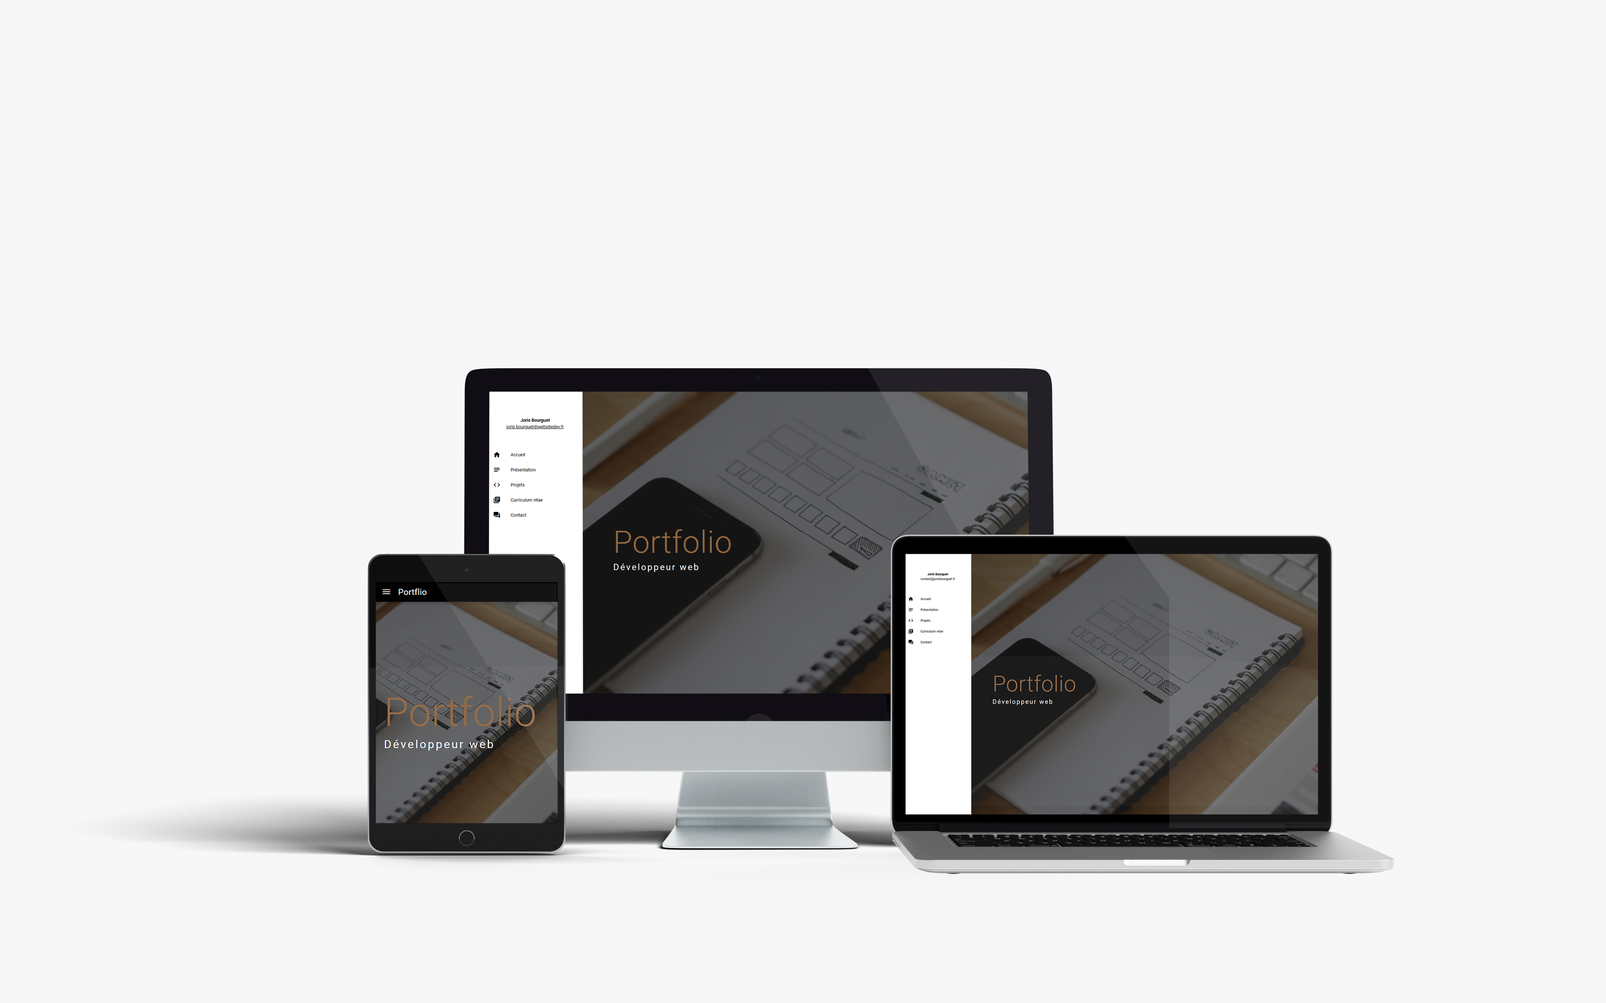
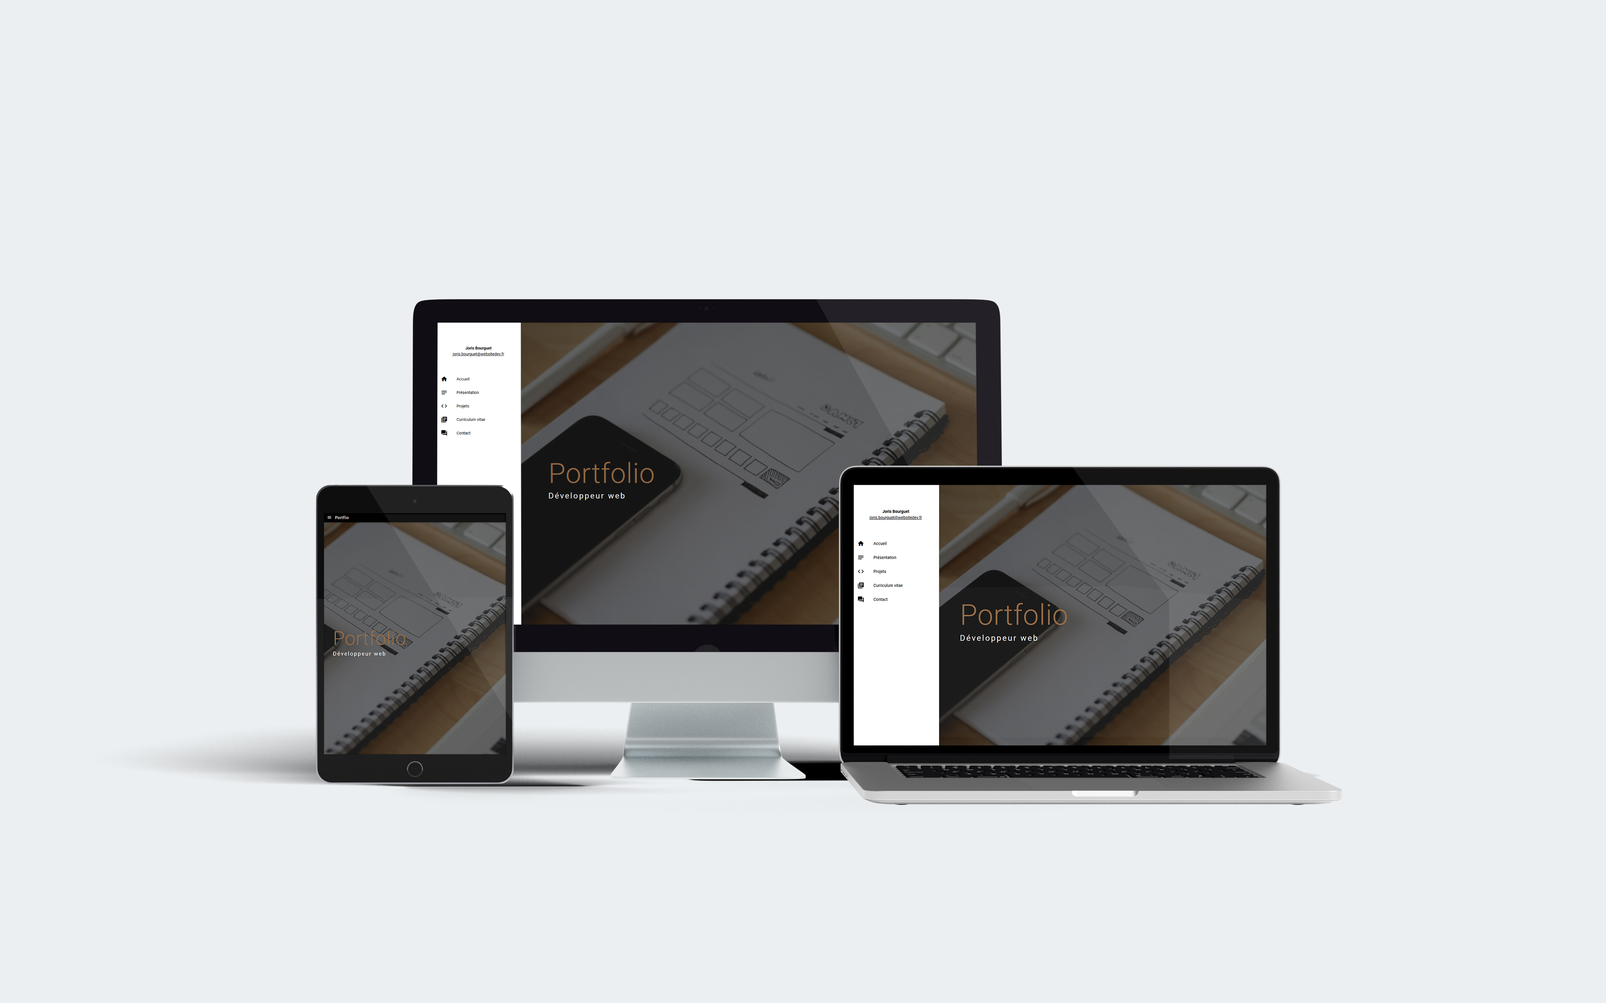
slider et wrapper left fonctionnel

Changed region(s): [[0.0938, 0.2808, 0.875, 0.8736]]

diff --git a/barbajs/assets/dist/main.min.css b/barbajs/assets/dist/main.min.css
@@ -1,1 +1,1 @@
-@import url("https://fonts.googleapis.com/css2?family=Raleway:ital,wght@0,400;1,300&family=Ultra&display=swap");*{scroll-behavior:smooth;font-family:"Raleway",sans-serif;-webkit-box-sizing:border-box;box-sizing:border-box}html,body{-webkit-touch-callout:none;-webkit-user-select:none;-moz-user-select:none;-ms-user-select:none;user-select:none;margin:0;padding:0}.wrapper .toggle-btn{display:block;position:fixed;width:50px;height:30px;top:60px;right:80px;z-index:999;cursor:pointer}.wrapper .toggle-btn span{display:block;position:absolute;height:4px;-webkit-transition:width .4s ease-in-out;transition:width .4s ease-in-out;width:100%;background-color:#000025}.wrapper .toggle-btn .one{position:absolute}.wrapper .toggle-btn .two{position:absolute;margin-top:12px}.wrapper .menu{z-index:998;position:absolute;background-color:#0a004b;height:100vh;width:100%;overflow:hidden}.wrapper .menu .data{padding:8em 0 0 2em;text-align:left}.wrapper .menu .data ul{list-style:none}.wrapper .menu .data ul li:first-child{color:#c50426;font-family:"Ultra",serif;font-size:2rem}.wrapper .menu .data ul li:not(:first-child){color:#ff4f4f;font-size:4rem}.wrapper .menu .data ul a{color:#ff4f4f;text-decoration:none}.wrapper .menu .data ul a:hover{color:#c50426}.landing{display:-ms-grid;display:grid;height:100vh;grid-template:"wrapperTitle  caroussel" "contact contact";-ms-grid-columns:1fr 3fr;grid-template-columns:1fr 3fr;-ms-grid-rows:1fr;grid-template-rows:1fr}.landing .wrapperTitle{z-index:1;grid-area:wrapperTitle;display:-webkit-box;display:-ms-flexbox;display:flex;-webkit-box-orient:vertical;-webkit-box-direction:normal;-ms-flex-direction:column;flex-direction:column;-webkit-box-align:center;-ms-flex-align:center;align-items:center;padding:2em}.landing .wrapperTitle .informationContact{display:-webkit-box;display:-ms-flexbox;display:flex;-webkit-box-pack:center;-ms-flex-pack:center;justify-content:center;-webkit-box-align:center;-ms-flex-align:center;align-items:center;-webkit-box-orient:vertical;-webkit-box-direction:normal;-ms-flex-direction:column;flex-direction:column}.landing .wrapperTitle .projectInfo{display:-webkit-box;display:-ms-flexbox;display:flex;-webkit-box-orient:vertical;-webkit-box-direction:normal;-ms-flex-direction:column;flex-direction:column;-webkit-box-pack:center;-ms-flex-pack:center;justify-content:center;-webkit-box-align:center;-ms-flex-align:center;align-items:center;-webkit-box-flex:1;-ms-flex:1;flex:1}.landing .wrapperTitle .projectInfo p{line-height:1.8em;text-align:center}@-webkit-keyframes animationCaroussel{from{opacity:0}to{opacity:1}}@keyframes animationCaroussel{from{opacity:0}to{opacity:1}}.landing .caroussel{position:relative;z-index:0;grid-area:caroussel;background-color:#dcdcdc;overflow-x:hidden}.landing .caroussel .projects{height:100%;width:500%;display:-webkit-box;display:-ms-flexbox;display:flex;-webkit-transition:-webkit-transform 1s ease-in-out;transition:-webkit-transform 1s ease-in-out;transition:transform 1s ease-in-out;transition:transform 1s ease-in-out, -webkit-transform 1s ease-in-out}.landing .caroussel .projects .projet1{height:100%;width:20%;background:url(../images/testLandingPageLeft.jpg) center center;background-size:cover}.landing .caroussel .projects .projet2{height:100%;width:20%;background:url(https://place-hold.it/500?text=projet2) center center;background-size:cover}.landing .caroussel .projects .projet3{height:100%;width:20%;background:url(https://place-hold.it/500?text=projet3) center center;background-size:cover}.landing .caroussel .projects .projet4{height:100%;width:20%;background:url(https://place-hold.it/500?text=projet4) center center;background-size:cover}.landing .caroussel .projects .projet5{height:100%;width:20%;background:url(https://place-hold.it/500?text=projet5) center center;background-size:cover}.landing .caroussel .control{position:absolute;display:-webkit-box;display:-ms-flexbox;display:flex;-webkit-box-pack:justify;-ms-flex-pack:justify;justify-content:space-between;left:8%;right:8%;top:50%}.landing .caroussel .control button{background:none;border:1px solid black;padding:1em;border-radius:100%;z-index:1;cursor:pointer}.landing .caroussel .control button i{font-size:1.5em}.landing .caroussel .carousselDots{position:absolute;display:-webkit-box;display:-ms-flexbox;display:flex;-webkit-box-pack:center;-ms-flex-pack:center;justify-content:center;left:8%;right:8%;top:93%}.intro{background:#000;position:fixed;top:-100%;left:0;width:100%;height:100%;display:-webkit-box;display:-ms-flexbox;display:flex;-webkit-box-pack:center;-ms-flex-pack:center;justify-content:center;-webkit-box-align:center;-ms-flex-align:center;align-items:center;z-index:999}.intro .intro-text{color:#e3f2ff;font-family:"Raleway",sans-serif;font-size:2rem;text-align:justify}.intro .intro-text .hide{font-size:2em;padding:0;margin:0;background:#000;overflow:hidden}.intro .intro-text .hide span{-webkit-transform:translateY(100%);transform:translateY(100%);display:inline-block}.intro #loader{position:absolute;top:50%;left:0;right:0;-webkit-transform:translateY(-50%);transform:translateY(-50%);text-align:center;opacity:0}.intro #loader .dot{width:12px;height:12px;display:inline-block;border-radius:50%;margin-right:5px;border:2px solid #fff}.sliderAnimation{z-index:999;background:#793636;position:fixed;top:0;left:0;width:100%;height:100%;-webkit-transform:translateY(100%);transform:translateY(100%)}@media only screen and (max-width: 1024px){.landing{-ms-grid-columns:1fr;grid-template-columns:1fr;-ms-grid-rows:1fr 3fr;grid-template-rows:1fr 3fr;grid-template-areas:"wrapperTitle" "caroussel" "contact"}}@media only screen and (max-width: 500px){.wrapper{display:none}}@media only screen and (min-width: 1025px){.projectInfo h2{-webkit-transform:translateY(-50px);transform:translateY(-50px)}.projectInfo p{-webkit-transform:translateY(-50px);transform:translateY(-50px)}}
+@import url("https://fonts.googleapis.com/css2?family=Raleway:ital,wght@0,400;1,300&family=Ultra&display=swap");*{scroll-behavior:smooth;font-family:"Raleway",sans-serif;-webkit-box-sizing:border-box;box-sizing:border-box}html,body{-webkit-touch-callout:none;-webkit-user-select:none;-moz-user-select:none;-ms-user-select:none;user-select:none;margin:0;padding:0}.wrapper .toggle-btn{display:block;position:fixed;width:50px;height:1em;top:3.5rem;right:4rem;z-index:999;cursor:pointer}.wrapper .toggle-btn span{display:block;position:absolute;height:4px;-webkit-transition:width .4s ease-in-out;transition:width .4s ease-in-out;width:100%;background-color:#000025}.wrapper .toggle-btn .one{position:absolute}.wrapper .toggle-btn .two{position:absolute;margin-top:12px}.wrapper .menu{z-index:998;position:absolute;background-color:#0a004b;height:100vh;width:100%;overflow:hidden}.wrapper .menu .data{padding:8em 0 0 2em;text-align:left}.wrapper .menu .data ul{list-style:none}.wrapper .menu .data ul li:first-child{color:#c50426;font-family:"Ultra",serif;font-size:2rem}.wrapper .menu .data ul li:not(:first-child){color:#ff4f4f;font-size:4rem}.wrapper .menu .data ul a{color:#ff4f4f;text-decoration:none}.wrapper .menu .data ul a:hover{color:#c50426}.landing{display:-ms-grid;display:grid;height:100vh;grid-template:"wrapperTitle  caroussel" "contact contact";-ms-grid-columns:1fr 3fr;grid-template-columns:1fr 3fr;-ms-grid-rows:1fr;grid-template-rows:1fr}.landing .wrapperTitle{z-index:1;grid-area:wrapperTitle;display:-webkit-box;display:-ms-flexbox;display:flex;-webkit-box-orient:vertical;-webkit-box-direction:normal;-ms-flex-direction:column;flex-direction:column;-webkit-box-align:center;-ms-flex-align:center;align-items:center;padding:2em}.landing .wrapperTitle .informationContact{display:-webkit-box;display:-ms-flexbox;display:flex;-webkit-box-pack:center;-ms-flex-pack:center;justify-content:center;-webkit-box-align:center;-ms-flex-align:center;align-items:center;-webkit-box-orient:vertical;-webkit-box-direction:normal;-ms-flex-direction:column;flex-direction:column}.landing .wrapperTitle .projectInfo{display:-webkit-box;display:-ms-flexbox;display:flex;-webkit-box-orient:vertical;-webkit-box-direction:normal;-ms-flex-direction:column;flex-direction:column;-webkit-box-pack:center;-ms-flex-pack:center;justify-content:center;-webkit-box-align:center;-ms-flex-align:center;align-items:center;-webkit-box-flex:1;-ms-flex:1;flex:1}.landing .wrapperTitle .projectInfo p{line-height:1.8em;text-align:center}@-webkit-keyframes animationCaroussel{from{opacity:0}to{opacity:1}}@keyframes animationCaroussel{from{opacity:0}to{opacity:1}}.landing .caroussel{position:relative;z-index:0;grid-area:caroussel;background-color:#dcdcdc;overflow-x:hidden}.landing .caroussel .pageTitle{position:absolute;top:1rem;left:4rem;z-index:1;font-size:2rem}.landing .caroussel .projects{height:100%;width:500%;display:-webkit-box;display:-ms-flexbox;display:flex;-webkit-transition:-webkit-transform 1s ease-in-out;transition:-webkit-transform 1s ease-in-out;transition:transform 1s ease-in-out;transition:transform 1s ease-in-out, -webkit-transform 1s ease-in-out}.landing .caroussel .projects .projet1{height:100%;width:20%;background:url(../images/testLandingPageLeft.jpg) center center;background-size:cover}.landing .caroussel .projects .projet2{height:100%;width:20%;background:url(../images/poleMecaLanding.jpg) center center;background-size:cover}.landing .caroussel .projects .projet3{height:100%;width:20%;background:url(../images/websitedevLanding.jpg) center center;background-size:cover}.landing .caroussel .projects .projet4{height:100%;width:20%;background:url(../images/hotelLequipeLanding.jpg) center center;background-size:cover}.landing .caroussel .projects .projet5{height:100%;width:20%;background:url(https://place-hold.it/500?text=projet5) center center;background-size:cover}.landing .caroussel .control{position:absolute;display:-webkit-box;display:-ms-flexbox;display:flex;-webkit-box-pack:justify;-ms-flex-pack:justify;justify-content:space-between;left:8%;right:8%;top:50%}.landing .caroussel .control button{background:none;border:1px solid black;padding:1em;border-radius:100%;z-index:1;cursor:pointer}.landing .caroussel .control button i{font-size:1.5em}.landing .caroussel .carousselDots{position:absolute;display:-webkit-box;display:-ms-flexbox;display:flex;-webkit-box-pack:center;-ms-flex-pack:center;justify-content:center;gap:2em;left:8%;right:8%;top:93%}.landing .caroussel .carousselDots div{background-color:#c50426;display:-webkit-box;display:-ms-flexbox;display:flex;z-index:0;border-radius:5px}.landing .caroussel .carousselDots div input{display:none}.landing .caroussel .carousselDots div label{border-radius:5px;z-index:1;cursor:pointer}.intro{background:#000;position:fixed;top:-100%;left:0;width:100%;height:100%;display:-webkit-box;display:-ms-flexbox;display:flex;-webkit-box-pack:center;-ms-flex-pack:center;justify-content:center;-webkit-box-align:center;-ms-flex-align:center;align-items:center;z-index:999}.intro .intro-text{color:#e3f2ff;font-family:"Raleway",sans-serif;font-size:2rem;text-align:justify}.intro .intro-text .hide{font-size:2em;padding:0;margin:0;background:#000;overflow:hidden}.intro .intro-text .hide span{-webkit-transform:translateY(100%);transform:translateY(100%);display:inline-block}.intro #loader{position:absolute;top:50%;left:0;right:0;-webkit-transform:translateY(-50%);transform:translateY(-50%);text-align:center;opacity:0}.intro #loader .dot{width:12px;height:12px;display:inline-block;border-radius:50%;margin-right:5px;border:2px solid #fff}.sliderAnimation{z-index:999;background:#793636;position:fixed;top:0;left:0;width:100%;height:100%;-webkit-transform:translateY(100%);transform:translateY(100%)}@media only screen and (max-width: 1024px){.landing{-ms-grid-columns:1fr;grid-template-columns:1fr;-ms-grid-rows:1fr 3fr;grid-template-rows:1fr 3fr;grid-template-areas:"wrapperTitle" "caroussel" "contact"}}@media only screen and (max-width: 500px){.wrapper{display:none}}@media only screen and (min-width: 1025px){.projectInfo h2{-webkit-transform:translateY(-50px);transform:translateY(-50px)}.projectInfo p{-webkit-transform:translateY(-50px);transform:translateY(-50px)}}

diff --git a/barbajs/assets/js/caroussel.js b/barbajs/assets/js/caroussel.js
@@ -12,35 +12,41 @@ function caroussel() {
     const slides = document.querySelectorAll(".js-slide")
     const leftBtn = document.querySelector(".left")
     const rightBtn = document.querySelector(".right")
+    const radio = document.querySelectorAll(".radioSlider")
+    const label = document.querySelectorAll('.js-label')
+    const divRadioBtn = document.querySelectorAll('.js-divRadio')
 
-    let radio = document.querySelectorAll(".radioSlider")
     let btnChecked;
     let i;
     let currentSlide;
     let tailleNext = "0px";
 
-    // Pour les btn radio
+    // =============== Pour les btn radio
 
+    // check le bon btn apres un swipe left or right
+    function checkBtn(i) {
+        radio[i].checked = true
+    }
+    //cherche le btn qui est check
     function findBtnChecked() {
         for (let j = 0; j < radio.length; j++) {
             if (radio[j].checked) {
                 btnChecked = radio[j].value;
                 i = btnChecked
-                return btnChecked, i
+                return btnChecked
             }
         }
     }
-
+    //quand on click sur un btn on vas sur la bonne diapo
     radio.forEach(item => {
         item.addEventListener("click", () => {
             findBtnChecked()
-            goToNext(findBtnChecked())
-            console.log(findBtnChecked(), i);
+            goToNext(findBtnChecked(), i)
         })
     });
 
 
-    // Pour swiper téléphone 
+    // =============== Pour swiper téléphone 
 
     slider.addEventListener('touchstart', function(event) {
         touchstartX = event.changedTouches[0].screenX;
@@ -65,14 +71,12 @@ function caroussel() {
         goToNext(i)
     }
 
-    // Pour les btn gauche droite 
+    // =============== Pour les btn gauche droite 
 
     // for (i = 0; i < slides.length; i++) {}
-
     leftBtn.addEventListener('click', () => {
-        let tlChangeText = gsap.timeline({})
-        tlChangeText.fromTo(".projectInfo", { x: "-100px", opacity: 0, z: "-100px" }, { x: "0px", opacity: 1, scale: 1, duration: 1.2 })
-
+        let tlChangeSlide = gsap.timeline({})
+        tlChangeSlide.fromTo(".projectInfo", { x: "-100px", opacity: 0, z: "-100px" }, { x: "0px", opacity: 1, scale: 1, duration: 1.2 })
         if (i <= 0) {
             i = slides.length - 1
         } else {
@@ -81,37 +85,57 @@ function caroussel() {
         goToNext(i);
     })
 
-
     rightBtn.addEventListener('click', () => {
-        let tlChangeText = new gsap.timeline({})
-        tlChangeText.fromTo(".projectInfo", { x: "50px", opacity: 0 }, { x: "0px", opacity: 1 })
+        let tlChangeSlide = gsap.timeline({})
+        tlChangeSlide.fromTo(".projectInfo", { x: "50px", opacity: 0 }, { x: "0px", opacity: 1 })
         if (i >= slides.length - 1) {
             i = 0
         } else {
             i++;
         }
-        goToNext(i, tlChangeText);
+        goToNext(i);
     })
 
+    // direction vers la bonne diapo et init tl for change text
     function goToNext(i) {
-        let tlChangeText = gsap.timeline({})
+        let tlChangeSlide = gsap.timeline({})
 
         currentSlide = slides[i]
         tailleNext = "-" + currentSlide.offsetLeft + "px"
         slider.style.transform = `translateX(${tailleNext})`
 
-        console.log(btnChecked, i);
-        changeText(i, tlChangeText);
+        checkBtn(i);
+        changeText(i, tlChangeSlide);
+        changeColorLabel(tlChangeSlide);
     }
 
-    // Choix de la diapo de départ
-    goToNext(i = 0)
+
+    // Changement de la couleur des labels
+    function changeColorLabel(tlChangeSlide) {
+        for (let j = 0; j < radio.length; j++) {
+            const element = radio[j];
+            if (element.checked) {
+                tlChangeSlide.fromTo(label[j], {
+                    y: "-10px",
+                    opacity: 0,
+                }, {
+                    y: "0px",
+                    backgroundColor: "#000025",
+                    width: "1em",
+                    opacity: 1,
+                    duration: .5
+                }, 0)
+            } else {
+                tlChangeSlide.to(label[j], { backgroundColor: "#c50426", height: "8px", width: "2.5em" }, 0)
+            }
+        }
+    }
 
     // Changement du text de description
-
-    function changeText(i, tlChangeText) {
-        tlChangeText.play()
-        switch (i) {
+    function changeText(i, tlChangeSlide) {
+        let parseI = parseInt(i)
+        tlChangeSlide.play()
+        switch (parseI) {
             case 0:
                 titreProject.innerHTML = `Titre #1`
                 descProject.innerHTML = "Bienvenu sur mon portfolio vous retrouverez ici tous mes projets ainsi que mon cv etc..."
@@ -141,7 +165,12 @@ function caroussel() {
                 break;
         }
     }
+    //init du caroussel
+    // Choix de la diapo de départ
+    goToNext(i = 0)
 }
+
+
 // ===================== Fin du caroussel de la page daccueil
 
 export { caroussel }

diff --git a/barbajs/assets/scss/main.scss b/barbajs/assets/scss/main.scss
@@ -67,9 +67,9 @@ secondary
             display: block;
             position: fixed;
             width: 50px;
-            height: 30px;
-            top: 60px;
-            right: 80px;
+            height: 1em;
+            top: 3.5rem;
+            right: 4rem;
             z-index: 999;
             cursor: pointer;
             span {
@@ -166,6 +166,13 @@ secondary
             grid-area: caroussel;
             background-color: rgb(220, 220, 220);
             overflow-x: hidden;
+            .pageTitle {
+                position: absolute;
+                top: 1rem;
+                left: 4rem;
+                z-index: 1;
+                font-size: 2rem;
+            }
             .projects {
                 height: 100%;
                 width: 500%;
@@ -180,19 +187,19 @@ secondary
                 .projet2 {
                     height: 100%;
                     width: 20%;
-                    background: url(https://place-hold.it/500?text=projet2) center center;
+                    background: url(../images/poleMecaLanding.jpg) center center;
                     background-size: cover;
                 }
                 .projet3 {
                     height: 100%;
                     width: 20%;
-                    background: url(https://place-hold.it/500?text=projet3) center center;
+                    background: url(../images/websitedevLanding.jpg) center center;
                     background-size: cover;
                 }
                 .projet4 {
                     height: 100%;
                     width: 20%;
-                    background: url(https://place-hold.it/500?text=projet4) center center;
+                    background: url(../images/hotelLequipeLanding.jpg) center center;
                     background-size: cover;
                 }
                 .projet5 {
@@ -225,9 +232,24 @@ secondary
                 position: absolute;
                 display: flex;
                 justify-content: center;
+                gap: 2em;
                 left: 8%;
                 right: 8%;
                 top: 93%;
+                div {
+                    background-color: $color-secondary-dark;
+                    display: flex;
+                    z-index: 0;
+                    border-radius: 5px;
+                    input {
+                        display: none;
+                    }
+                    label {
+                        border-radius: 5px;
+                        z-index: 1;
+                        cursor: pointer;
+                    }
+                }
             }
         }
     }
@@ -235,7 +257,7 @@ secondary
     .intro {
         background: #000;
         position: fixed;
-        //change top to 0 for see Open Browser =>
+        //change top to 0 for see Open Browser and -100% for skip=>
         top: -100%;
         left: 0;
         width: 100%;

diff --git a/barbajs/index.html b/barbajs/index.html
@@ -77,6 +77,7 @@
                 </div>
             </div>
             <div class="caroussel">
+                <h2 class="pageTitle">Mes Projets</h2>
                 <div class="projects">
                     <div class="projet1 active js-slide">
 
@@ -99,11 +100,26 @@
                     <button class="right"><span><i class="fas fa-arrow-right"></i></span></button>
                 </div>
                 <div class="carousselDots">
-                    <input type="radio" name="slide" class="radioSlider" id="dot1" value="0" checked>
-                    <input type="radio" name="slide" class="radioSlider" id="dot2" value="1">
-                    <input type="radio" name="slide" class="radioSlider" id="dot3" value="2">
-                    <input type="radio" name="slide" class="radioSlider" id="dot4" value="3">
-                    <input type="radio" name="slide" class="radioSlider" id="dot5" value="4">
+                    <div class="js-divRadio">
+                        <input type="radio" name="slide" class="radioSlider" id="dot1" value="0" checked="checked">
+                        <label for="dot1" class="js-label"></label>
+                    </div>
+                    <div class="js-divRadio">
+                        <input type="radio" name="slide" class="radioSlider" id="dot2" value="1">
+                        <label for="dot2" class="js-label"></label>
+                    </div>
+                    <div class="js-divRadio">
+                        <input type="radio" name="slide" class="radioSlider" id="dot3" value="2">
+                        <label for="dot3" class="js-label"></label>
+                    </div>
+                    <div class="js-divRadio">
+                        <input type="radio" name="slide" class="radioSlider" id="dot4" value="3">
+                        <label for="dot4" class="js-label"></label>
+                    </div>
+                    <div class="js-divRadio">
+                        <input type="radio" name="slide" class="radioSlider" id="dot5" value="4">
+                        <label for="dot5" class="js-label"></label>
+                    </div>
                 </div>
             </div>
         </section>

diff --git a/barbajs/assets/css/main.css b/barbajs/assets/css/main.css
@@ -56,9 +56,9 @@ body {
   display: block;
   position: fixed;
   width: 50px;
-  height: 30px;
-  top: 60px;
-  right: 80px;
+  height: 1em;
+  top: 3.5rem;
+  right: 4rem;
   z-index: 999;
   cursor: pointer;
 }
@@ -213,6 +213,14 @@ body {
   overflow-x: hidden;
 }
 
+.landing .caroussel .pageTitle {
+  position: absolute;
+  top: 1rem;
+  left: 4rem;
+  z-index: 1;
+  font-size: 2rem;
+}
+
 .landing .caroussel .projects {
   height: 100%;
   width: 500%;
@@ -235,21 +243,21 @@ body {
 .landing .caroussel .projects .projet2 {
   height: 100%;
   width: 20%;
-  background: url(https://place-hold.it/500?text=projet2) center center;
+  background: url(../images/poleMecaLanding.jpg) center center;
   background-size: cover;
 }
 
 .landing .caroussel .projects .projet3 {
   height: 100%;
   width: 20%;
-  background: url(https://place-hold.it/500?text=projet3) center center;
+  background: url(../images/websitedevLanding.jpg) center center;
   background-size: cover;
 }
 
 .landing .caroussel .projects .projet4 {
   height: 100%;
   width: 20%;
-  background: url(https://place-hold.it/500?text=projet4) center center;
+  background: url(../images/hotelLequipeLanding.jpg) center center;
   background-size: cover;
 }
 
@@ -294,9 +302,29 @@ body {
   -webkit-box-pack: center;
       -ms-flex-pack: center;
           justify-content: center;
+  gap: 2em;
   left: 8%;
   right: 8%;
   top: 93%;
+}
+
+.landing .caroussel .carousselDots div {
+  background-color: #c50426;
+  display: -webkit-box;
+  display: -ms-flexbox;
+  display: flex;
+  z-index: 0;
+  border-radius: 5px;
+}
+
+.landing .caroussel .carousselDots div input {
+  display: none;
+}
+
+.landing .caroussel .carousselDots div label {
+  border-radius: 5px;
+  z-index: 1;
+  cursor: pointer;
 }
 
 .intro {
